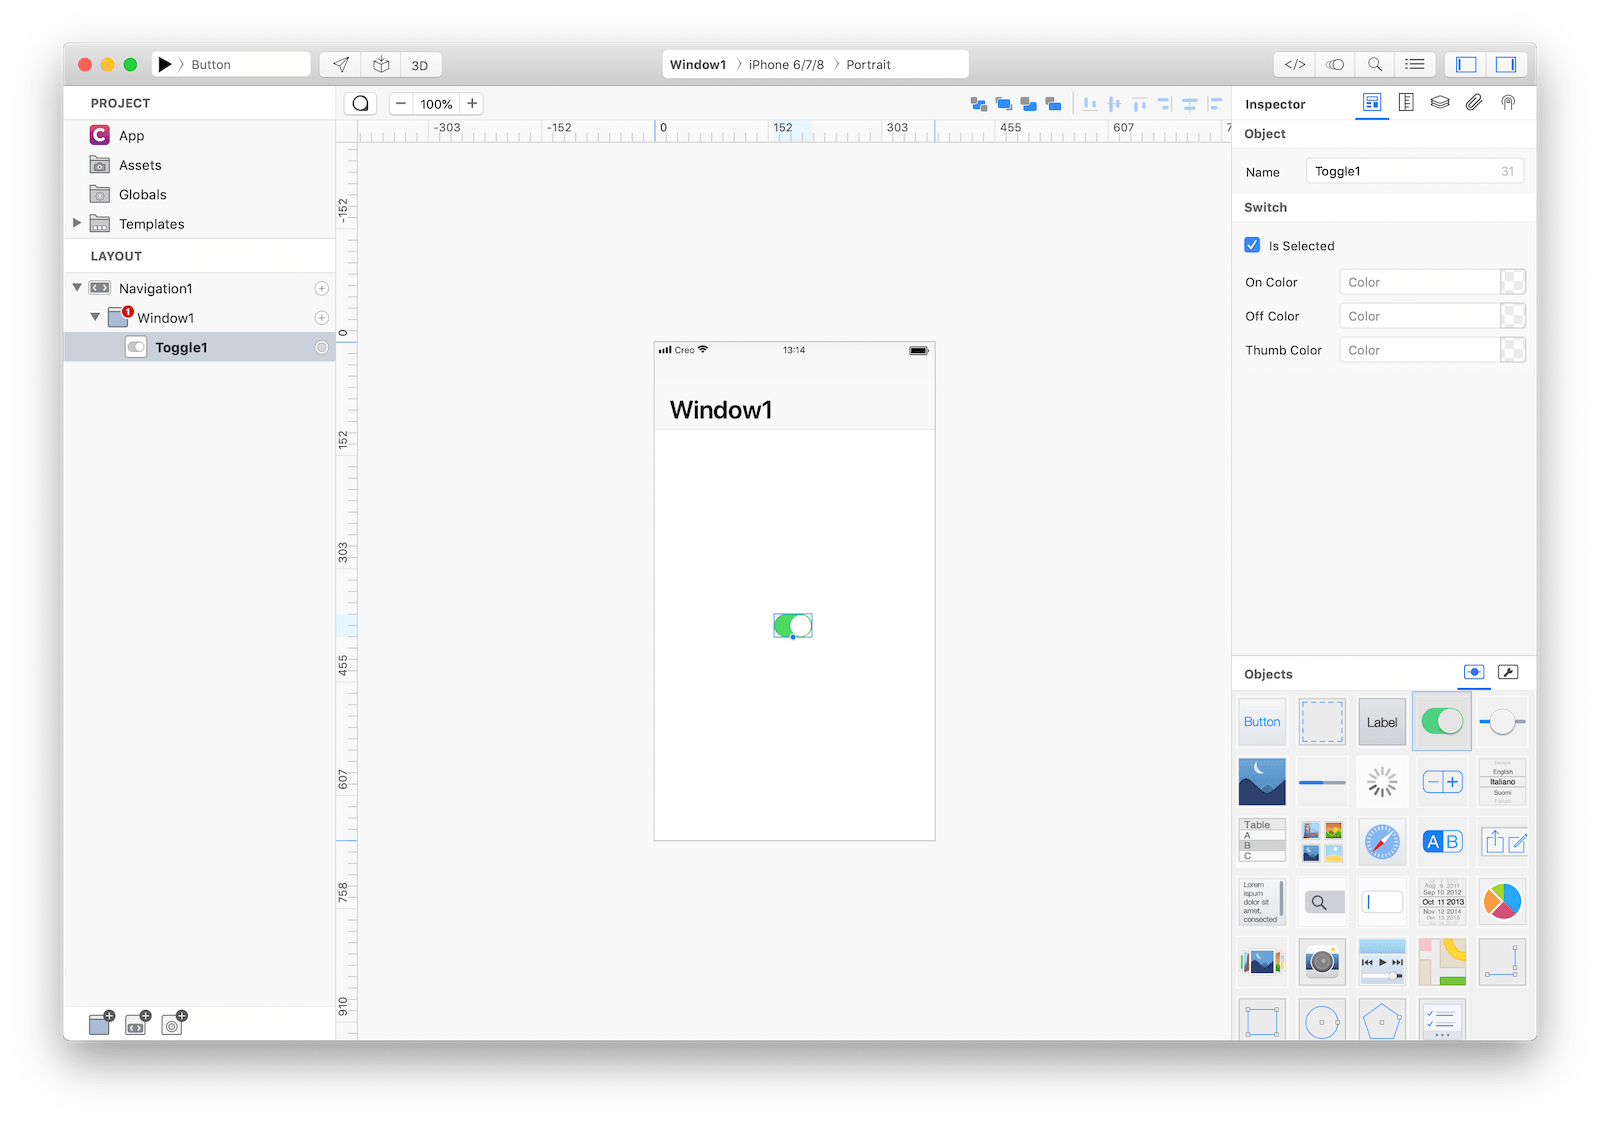
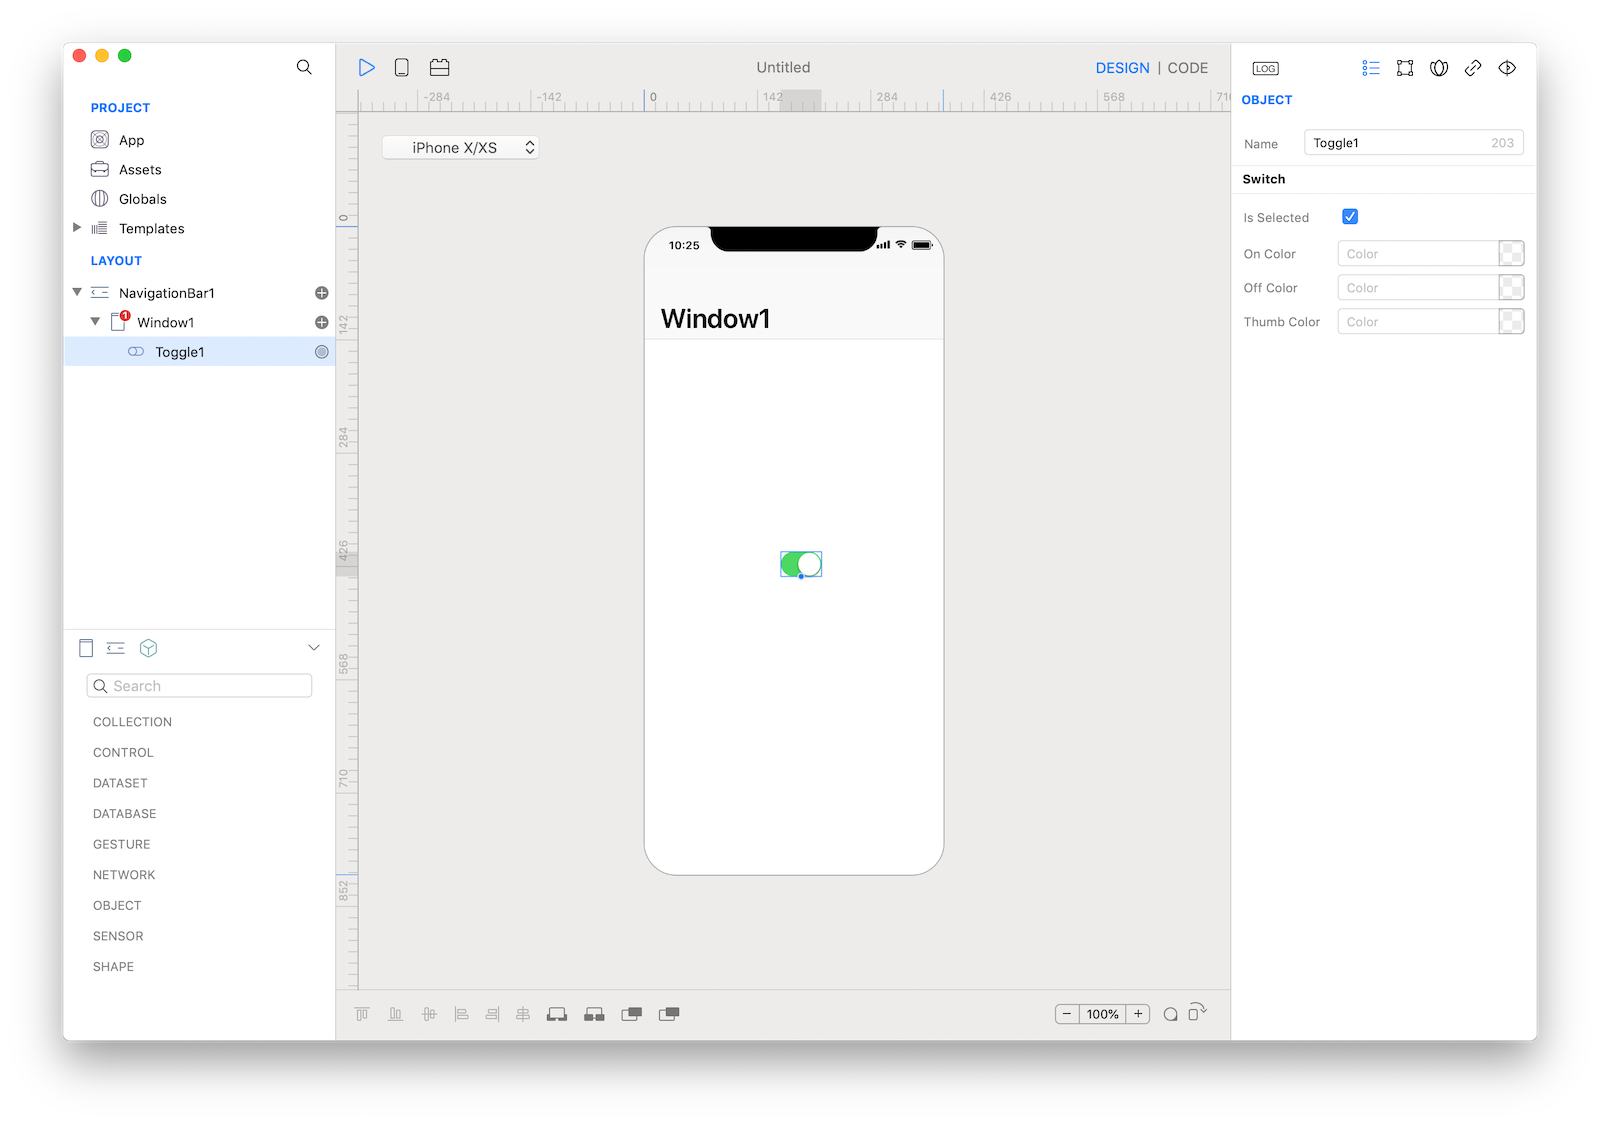
Updated Toggle for Creo2

diff --git a/docs/creo/Toggle.md b/docs/creo/Toggle.md
@@ -1,6 +1,6 @@
 A switch is a visual toggle between two mutually exclusive states—on and off.
 
-![Toggle](../images/creo/toggle1.png)
+![Toggle](../images/creo2/toggle1.png)
 
 ### Best practices
 * **Consider adjusting a switch’s appearance to match the style of your app.** If it works well in your app, change the colors of a switch in its on and off states or use custom imagery to represent the switch.
@@ -14,14 +14,14 @@ A switch is a visual toggle between two mutually exclusive states—on and off.
 
 If you need to write code for Toggle:
 
-3. Open the `Code Editor` (cmd + 6)
+3. Open the `Code Editor`
 4. Select the `Changed` item inside the `Events` area and write your custom code in the `Code Editor`
 
-![`Toggle` inspector](../images/creo/toggle2.png)
+![`Toggle` inspector](../images/creo2/toggle2.png)
 The inspector where the `Toggle` class can be configured.
 
 ### Example
-1. Open the `Code Editor` (cmd + 6)
+1. Open the `Code Editor`
 2. Select the `Changed` item inside the `Events` area and write your custom code in the `Code Editor`
 ```
 Console.write("Toggle value: \(self.value)")
